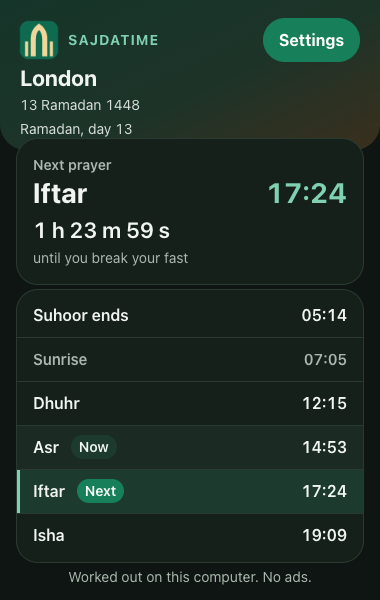
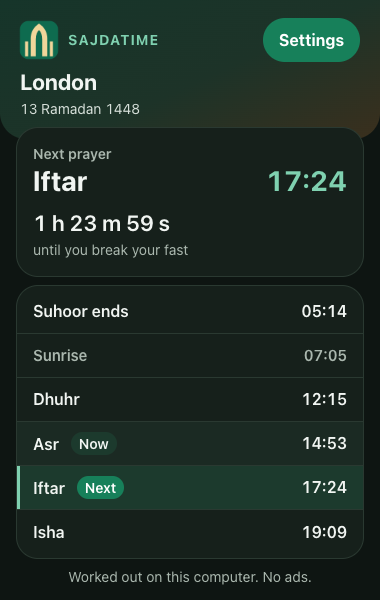
Review fix: drop the duplicated Ramadan day line
The review of Step 3a asked to remove the "Ramadan, day N" line. The
Hijri date in the header already reads "13 Ramadan 1448", so the second
line repeated the same fact and, by adding a row, pushed the header text
against the hero card. This commit removes that line and the
`main.is-ramadan` spacing rules that tightened the header around it,
restoring the normal gaps.

The e2e test now asserts the Hijri date shows "Ramadan" and that the day
appears exactly once in the header, and the two Ramadan screenshots are
regenerated. BUILD-NEXT.md, HANDOVER.md and REVIEW-REQUEST.md drop the
day-line wording; DECISIONS.md corrects D-028 and records D-029.

Secret scan clean.

diff --git a/tests/e2e/ramadan.test.ts b/tests/e2e/ramadan.test.ts
@@ -13,9 +13,15 @@ test('inside Ramadan the hero and rows change to suhoor and iftar', async () => 
     await expect(extension.page.locator('.countdown-note')).toHaveText('until you break your fast');
     await expect(extension.page.locator('[data-slot="fajr"] .time-label')).toContainText('Suhoor ends');
     await expect(extension.page.locator('[data-slot="maghrib"] .time-label')).toContainText('Iftar');
-    await expect(extension.page.locator('.ramadan-day')).toHaveText('Ramadan, day 13');
+    // The Hijri date already reads "13 Ramadan 1448", so "Ramadan" appears once in the header.
+    await expect(extension.page.locator('.hijri')).toHaveText('13 Ramadan 1448');
+    const headerRamadanMentions = await extension.page.locator('.hero').evaluate((el) => {
+      const text = el.textContent ?? '';
+      return (text.match(/Ramadan/g) ?? []).length;
+    });
+    expect(headerRamadanMentions).toBe(1);
 
-    // The extra header line must not push the popup past 600 pixels.
+    // The Times view must still fit the 600 pixel popup.
     const sizes = await extension.page.evaluate(() => ({
       scrollHeight: document.documentElement.scrollHeight,
       clientHeight: document.documentElement.clientHeight,

diff --git a/src/popup/styles.css b/src/popup/styles.css
@@ -97,35 +97,6 @@ button {
   font-variant-numeric: tabular-nums;
 }
 
-.ramadan-day {
-  margin: 4px 0 0;
-  color: var(--ink-hero-muted);
-  font-size: 14px;
-  font-variant-numeric: tabular-nums;
-}
-
-/* In Ramadan the header grows by one line, so the header and the gaps below it
-   tighten to keep the whole Times view inside the 600 pixel popup. */
-main.is-ramadan .hero {
-  padding-bottom: 12px;
-}
-
-main.is-ramadan .place {
-  margin-top: 4px;
-}
-
-main.is-ramadan .times {
-  margin-top: 4px;
-}
-
-main.is-ramadan .footer {
-  margin: 4px 20px 8px;
-}
-
-main.is-ramadan .countdown {
-  margin-top: 6px;
-}
-
 .next-card {
   position: relative;
   z-index: 1;

diff --git a/src/popup/Popup.tsx b/src/popup/Popup.tsx
@@ -334,7 +334,7 @@ function Times({
   const nextNote = countdownNote(next.slot, inRamadan);
 
   return (
-    <main class={inRamadan ? 'is-ramadan' : undefined}>
+    <main>
       <header class="hero">
         <div class="hero-top">
           <Brand />
@@ -344,9 +344,6 @@ function Times({
         </div>
         <h1 class="place">{settings.place.name}</h1>
         {hijri ? <p class="hijri">{hijri}</p> : null}
-        {inRamadan && ramadan?.dayNumber ? (
-          <p class="ramadan-day">Ramadan, day {ramadan.dayNumber}</p>
-        ) : null}
       </header>
 
       <section class="next-card" aria-labelledby="next-label">

diff --git a/docs/REVIEW-REQUEST.md b/docs/REVIEW-REQUEST.md
@@ -1,6 +1,6 @@
 # Review request
 
-**Baseline:** [`aliimrankhan86/sajdatime-extension`](https://github.com/aliimrankhan86/sajdatime-extension) at commit `a534306` on `main`, plus this Step 3a commit on top of it, which is the one to review. `a534306` is the accepted Step 2 P3 fix. Step 3a of [`docs/BUILD-NEXT.md`](BUILD-NEXT.md) adds Ramadan labels: inside Ramadan the Times screen reads Fajr as "Suhoor ends" and Maghrib as "Iftar", the hero and countdown follow, a "Ramadan, day N" line sits under the Hijri date, and a "Ramadan" group in Settings holds one switch that turns the card off.
+**Baseline:** [`aliimrankhan86/sajdatime-extension`](https://github.com/aliimrankhan86/sajdatime-extension) at commit `a534306` on `main`, plus this Step 3a commit on top of it, which is the one to review. `a534306` is the accepted Step 2 P3 fix. Step 3a of [`docs/BUILD-NEXT.md`](BUILD-NEXT.md) adds Ramadan labels: inside Ramadan the Times screen reads Fajr as "Suhoor ends" and Maghrib as "Iftar", the hero and countdown follow, the Hijri date already names the day, and a "Ramadan" group in Settings holds one switch that turns the card off.
 
 **Previous reviews:** Step 1 (`ca39f1a`), on top of the security foundation commit, was judged READY with three P2 fixes applied; do not reopen the School choice, the popup width fix or the Shia Maghrib rule. Step 2 (`cf60111`) was reviewed and judged NOT READY: a notification icon URL resolved against the worker script so no alert ever appeared (P0), the Play button never returned to Play after the beep ended (P1), and a settings rebuild cleared the 60 second self-clear alarm so a pinned notification never went away (P2). The fix commit `fd002ba` repaired all three and added the tests that should have caught them, and Step 2 was then judged READY. A P3 fix (`a534306`) made a replaced sound never report its end, so starting a new sound over a playing one no longer flips Play back to Play. The security foundation is `docs/SECURITY.md` enforced by code. All of these are history for this review.
 
@@ -19,7 +19,7 @@ There is no account, no ad, no analytics, no host permission, no content script 
 This is Step 3a of [`docs/BUILD-NEXT.md`](BUILD-NEXT.md): Ramadan labels, shown automatically every year.
 
 - **A `ramadanCard` setting, on by default.** `Settings` gains `ramadanCard: boolean`, written `true` for a new install and added by the migration for an existing one. `isSettings` rejects anything that is not a boolean, and the migration preserves a value the user has already chosen. This step adds no new permission.
-- **Inside Ramadan, Fajr and Maghrib are renamed.** While today is inside Ramadan on Umm al-Qura (with the user's Hijri shift) and the card is on, the hero names the next prayer "Suhoor ends" or "Iftar", the countdown note reads "until suhoor ends" or "until you break your fast", the Fajr row reads "Suhoor ends" and the Maghrib row "Iftar", and a "Ramadan, day N" line sits under the Hijri date. Every other prayer keeps its name, and turning the card off returns all six to normal. `src/core/hijri.ts` already held the Ramadan windows; this step only renders them.
+- **Inside Ramadan, Fajr and Maghrib are renamed.** While today is inside Ramadan on Umm al-Qura (with the user's Hijri shift) and the card is on, the hero names the next prayer "Suhoor ends" or "Iftar", the countdown note reads "until suhoor ends" or "until you break your fast", the Fajr row reads "Suhoor ends" and the Maghrib row "Iftar". Every other prayer keeps its name, and turning the card off returns all six to normal. `src/core/hijri.ts` already held the Ramadan windows; this step only renders them.
 - **Settings gains a Ramadan group.** Above Alerts and shown while the card would ever apply (inside Ramadan or up to three days before), one "Ramadan card" switch with no hint text. The Isha-plus-thirty-minutes rule for Umm al-Qura in Ramadan was already in the engine and is untouched.
 - **No network, still.** The popup and Settings read only the stored settings and the bundled Hijri table. The R6 no-network test is unchanged and still passes.
 
@@ -42,7 +42,7 @@ To look by hand, open `chrome://extensions`, enable Developer mode, choose **Loa
 ## What to judge
 
 1. **The Ramadan window.** Read `src/core/hijri.ts` and confirm `ramadanInfo` and `contains` draw from Umm al-Qura with the user's shift, and that the Times screen applies the labels only inside Ramadan while Settings shows the group for the wider window. The location step, the School choice, the popup width fix, the Shia Maghrib rule and the Step 2 alerts are accepted; do not reopen them.
-2. **Design against the brief.** Quiet Glass tokens, 380 by 600 popup, spacing, type hierarchy, the solid green action button with bold white text, no two icon buttons side by side, a close control on every dismissable screen, times in tabular numerals, nothing below 14 pixels, targets at least 44 pixels. The new "Ramadan, day N" line and the "Ramadan card" switch must meet the same bar in light and dark.
+2. **Design against the brief.** Quiet Glass tokens, 380 by 600 popup, spacing, type hierarchy, the solid green action button with bold white text, no two icon buttons side by side, a close control on every dismissable screen, times in tabular numerals, nothing below 14 pixels, targets at least 44 pixels. The new "Ramadan card" switch must meet the same bar in light and dark.
 3. **The Times screen in Ramadan.** Fajr and Maghrib renamed before and after Isha (the hero says "Iftar" before Maghrib and "Suhoor ends" after Isha), every other row unchanged, the whole view still inside 600 pixels without a scrollbar, and a normal view outside Ramadan.
 4. **The setting.** The "Ramadan" group appears only while the card would apply, the switch is on by default, turning it off returns the labels to normal and the choice survives a reload, and the disclaimer is intact.
 5. **Accessibility.** axe is not a screen reader. Check the tab order, the heading focus, Escape, the `aria-current` value, the switch `role="switch"` and `aria-checked`, and that the hero's `aria-label` matches the renamed prayer.

diff --git a/docs/DECISIONS.md b/docs/DECISIONS.md
@@ -253,8 +253,16 @@ The badge and "time until the next prayer" reminders are deferred.
 
 ## D-028: Ramadan relabels Fajr and Maghrib, and the card is on by default
 
-**Decided:** while today is inside Ramadan on Umm al-Qura (with the user's Hijri shift) and the `ramadanCard` setting is on, the Times screen reads Fajr as "Suhoor ends" and Maghrib as "Iftar". The hero names the next prayer "Suhoor ends" or "Iftar", the countdown note reads "until suhoor ends" or "until you break your fast", and a "Ramadan, day N" line sits under the Hijri date. Every other prayer keeps its name. Settings gains a "Ramadan" group above Alerts, shown while the card would ever apply (inside Ramadan or up to three days before), with one "Ramadan card" switch and no hint. The card defaults to on; turning it off returns all six times to their normal names.
+**Decided:** while today is inside Ramadan on Umm al-Qura (with the user's Hijri shift) and the `ramadanCard` setting is on, the Times screen reads Fajr as "Suhoor ends" and Maghrib as "Iftar". The hero names the next prayer "Suhoor ends" or "Iftar", the countdown note reads "until suhoor ends" or "until you break your fast". The Hijri date already names the day, so no separate day line is added. Every other prayer keeps its name. Settings gains a "Ramadan" group above Alerts, shown while the card would ever apply (inside Ramadan or up to three days before), with one "Ramadan card" switch and no hint. The card defaults to on; turning it off returns all six times to their normal names.
 
 **Why:** the two prayers that bound the fast matter more than their names during Ramadan, so the automatic reading Ali asked for renames only those two and leaves the rest alone. The switch exists for someone who prefers the plain prayer names, but the default follows the brief's automatic behaviour. The notice window (three days before and the first two days) and the timetable are deferred to Step 3b. The Umm al-Qura Isha plus thirty minutes rule was already in the engine and is untouched.
 
 **Revisit if:** Ali asks for the labels always on, or for a suhoor or iftar reminder, which would turn the card into a fuller Ramadan view.
+
+## D-029: the header shows the day once
+
+**Decided:** the review of Step 3a asked to remove the "Ramadan, day N" line that D-028 added under the Hijri date. The Hijri date already reads "13 Ramadan 1448", so the second line repeated the same fact and pushed the header against the hero card. The line and the `is-ramadan` spacing rules that tightened around it are removed, and the e2e test now asserts the Hijri date shows "Ramadan" and that the day appears only once in the header.
+
+**Why:** a screen must not repeat a fact it already shows, and the extra line cost the header its normal gaps. The Hijri date is enough on its own.
+
+**Revisit if:** a later design wants the day number shown separately in the header, which would need a different layout, not a second text line.

diff --git a/docs/BUILD-NEXT.md b/docs/BUILD-NEXT.md
@@ -191,13 +191,13 @@ Add `ramadanCard: boolean` to the settings, default `true`, with a migration and
 1. **In Ramadan** (`contains(info, today)`) and with `ramadanCard` on, on Times:
    - The hero label reads **Suhoor ends** when Fajr is next and **Iftar** when Maghrib is next. Under the countdown: **until suhoor ends** or **until you break your fast**. Other prayers are unchanged.
    - In the list, the Fajr row is labelled **Suhoor ends** and the Maghrib row **Iftar**.
-   - Under the Hijri date in the header, a line: **Ramadan, day 5** (the day number).
+   - The Hijri date in the header already shows the day number (for example **13 Ramadan 1448**), so no separate "day" line is added.
 2. **Settings, Ramadan group**, shown while `showsSettings(info, today)` is true, placed above Alerts: heading **Ramadan**, one switch **Ramadan card**, on by default. Turning it off returns Times to the normal labels.
 3. Umm al-Qura Isha plus 30 minutes in Ramadan already exists (`engine.ts`). Do not touch it.
 
 ### Tests
 
-- e2e with Playwright's clock set inside Ramadan 2027: the hero says Iftar in the afternoon and Suhoor ends after Isha; the Fajr and Maghrib rows are relabelled; the header shows the day number; turning the Ramadan card off restores the normal labels; outside Ramadan nothing changes.
+- e2e with Playwright's clock set inside Ramadan 2027: the hero says Iftar in the afternoon and Suhoor ends after Isha; the Fajr and Maghrib rows are relabelled; the header's Hijri date shows the day number and no separate day line appears; turning the Ramadan card off restores the normal labels; outside Ramadan nothing changes.
 - Unit, only for a helper you extended: dates around 1 Ramadan 1448 and 1 Shawwal 1448, with shifts of minus 1 and plus 1, checked against the phone's Umm al-Qura values, not against this code.
 - Screenshots of Times in Ramadan, light and dark, only with `SAJDATIME_SCREENSHOTS=1`, for Ali.
 

diff --git a/docs/HANDOVER.md b/docs/HANDOVER.md
@@ -20,7 +20,7 @@ An independent review brief for this commit is in [`docs/REVIEW-REQUEST.md`](REV
 | Prayer engine | 13 methods, both Asr schools, polar projection and correction clamp, Shia Maghrib from the Twilight Angle cap exactly as the phone does it, so a normal Shia day above 60 degrees is not projected | `npm test`: 144 unit tests pass |
 | Golden values | Six phone fixtures pinned, plus 13 broad Aladhan sanity fixtures | `tests/unit/engine.test.ts`, `tests/unit/aladhan.test.ts` |
 | Hijri calendar | Umm al-Qura, shift, Ramadan windows, Eids | `tests/unit/hijri.test.ts` |
-| Ramadan card | Inside Ramadan, Fajr reads "Suhoor ends" and Maghrib "Iftar", the hero and countdown follow, and "Ramadan, day N" sits under the Hijri date; a "Ramadan" group in Settings holds one switch, on by default | `tests/e2e/ramadan.test.ts`, `docs/images/times-ramadan-light.png`, `docs/images/times-ramadan-dark.png` |
+| Ramadan card | Inside Ramadan, Fajr reads "Suhoor ends" and Maghrib "Iftar", the hero and countdown follow, and the Hijri date already names the day; a "Ramadan" group in Settings holds one switch, on by default | `tests/e2e/ramadan.test.ts`, `docs/images/times-ramadan-light.png`, `docs/images/times-ramadan-dark.png` |
 | Method suggestion | Country table and Shia rule | `tests/unit/suggestions.test.ts` |
 | City search | Offline GeoNames city list, search and pick; the most populous city within 15 kilometres names a place the browser located, with "Near" past 50 kilometres | `tests/unit/cities.test.ts`, `tests/unit/place.test.ts`, Playwright first-run test |
 | Popup | Place, Hijri date, next prayer, countdown, six times, a fixed 380 pixel width, the real toolbar popup measured at 380 by 600, 200 percent zoom, visible Settings button, explicit Next and Now pills | Playwright screenshots and 52 end-to-end tests |
